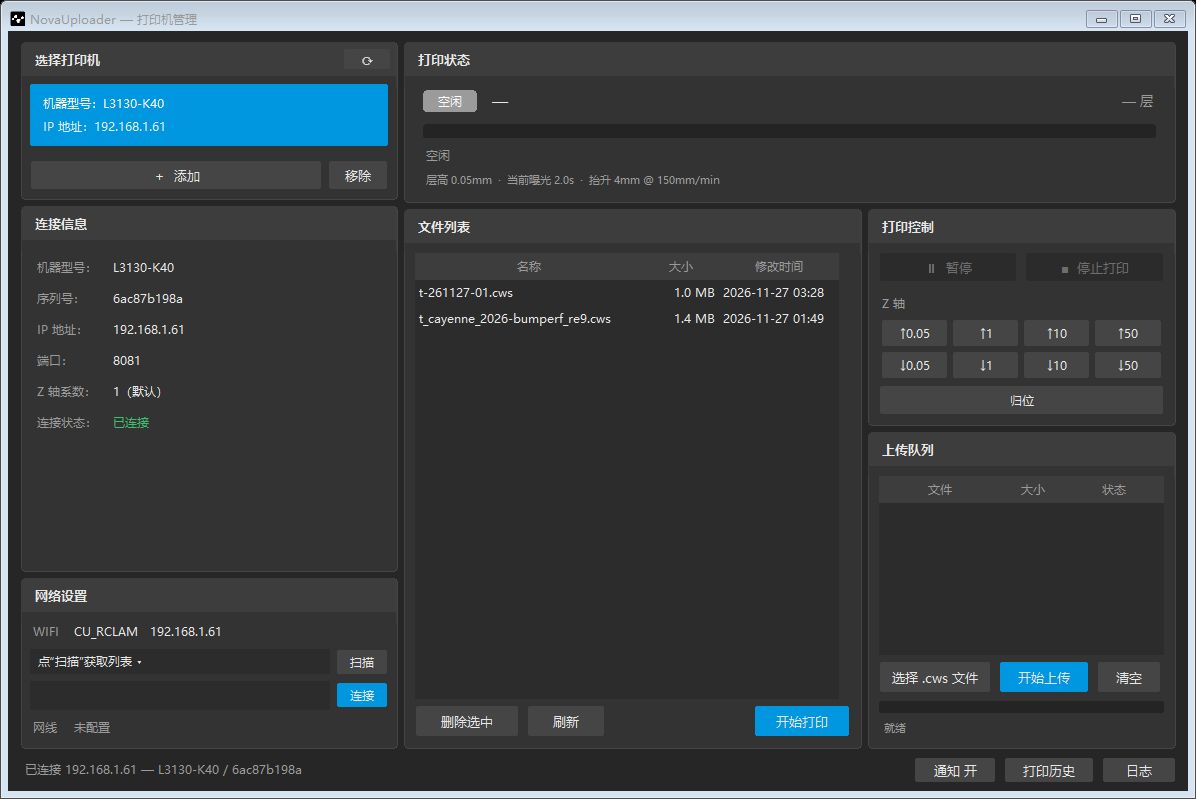
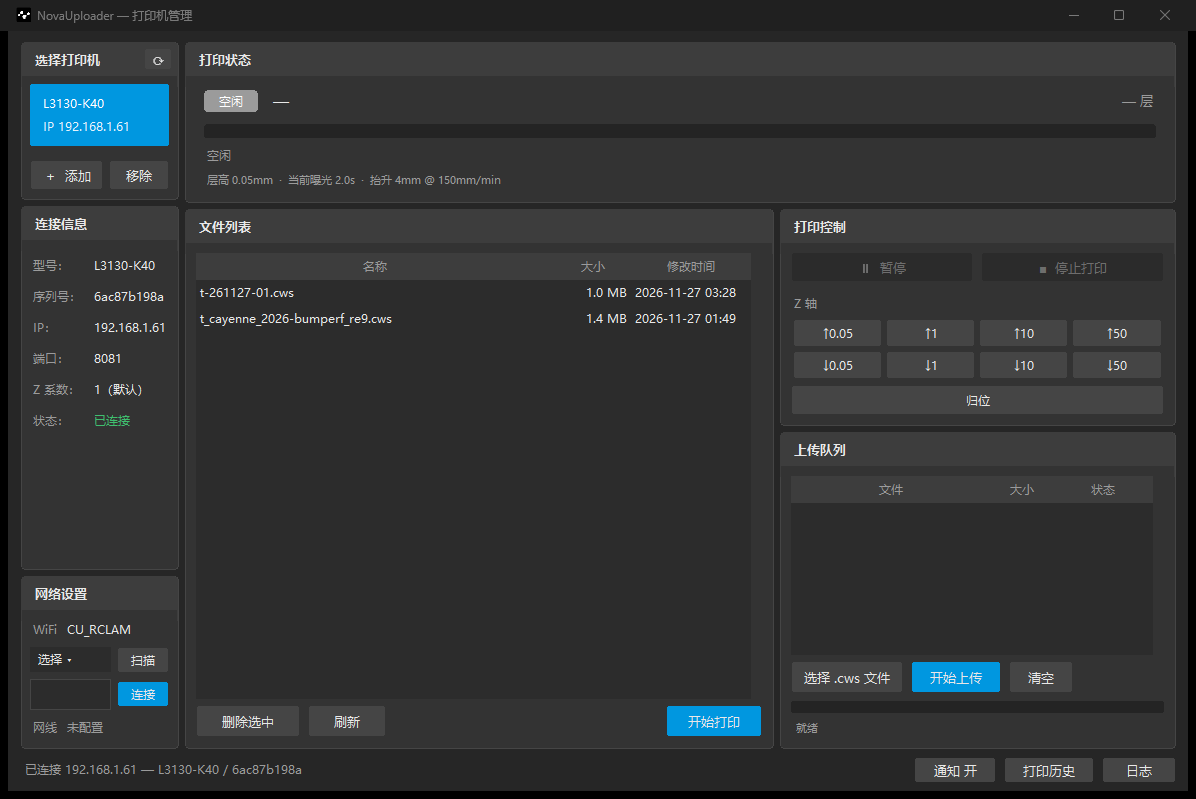
style: 侧栏宽度收到原来的 2/3，打印机行与 WiFi 名字按可用宽度适配（0.6.7）

diff --git a/pc/NovaUploader.py b/pc/NovaUploader.py
@@ -49,7 +49,7 @@ CONFIG_PATH_LEGACY = os.path.join(APP_DIR, "printers.json")
 HISTORY_PATH = os.path.join(DATA_DIR, "history.json")
 HISTORY_LIMIT = 300
 
-APP_VERSION = "0.6.6"
+APP_VERSION = "0.6.7"
 
 # NovaMaker 的图标（64x64 PNG，内嵌以免打包后还要带外部文件）
 ICON_PNG_B64 = (
@@ -463,7 +463,9 @@ class RoundButton(tk.Canvas):
                 w = f.measure(text) + int((padx * 2 + 6) * s)
             except Exception:
                 w = int(90 * s)
-        super().__init__(master, height=int(height * s), width=max(int(48 * s), w),
+        # 显式给宽度时允许比自适应下限更窄（窄侧栏里的图标/短文本按钮）
+        floor = int(28 * s) if width else int(48 * s)
+        super().__init__(master, height=int(height * s), width=max(floor, w),
                          bg=bg, highlightthickness=0, bd=0, takefocus=0)
         self.s = s
         self._text = text
@@ -716,7 +718,9 @@ class Card(tk.Frame):
         self._title = title
         self._hw = ()
 
-        self.canvas = tk.Canvas(self, bg=page, highlightthickness=0, bd=0)
+        # 宽度给 1，避免 Canvas 默认的 378px 反过来决定卡片宽度；
+        # 高度不设初值，等宽度确定后由下面的自适应逻辑回调
+        self.canvas = tk.Canvas(self, bg=page, highlightthickness=0, bd=0, width=1)
         self.canvas.pack(fill="both", expand=True)
 
         self.body = tk.Frame(self.canvas, bg=THEME["card"])
@@ -733,7 +737,9 @@ class Card(tk.Frame):
     def _relayout(self):
         c = self.canvas
         w, h = c.winfo_width(), c.winfo_height()
-        if w <= 8 or h <= 8:
+        if w < 40 or h <= 8:
+            # 宽度尚未确定（首次布局）时不要参与高度计算，
+            # 否则正文在 1px 宽度下算出的高度会把整张卡片压塌
             return
         c.delete("deco")
         pad, r = 1, self.radius
@@ -1134,9 +1140,9 @@ class App(tk.Tk):
         body.rowconfigure(2, weight=1)
 
         # ---- 左栏：选择打印机 + 连接信息 ----
-        side = tk.Frame(body, bg=THEME["bg"], width=int(238 * s))
+        side = tk.Frame(body, bg=THEME["bg"], width=int(159 * s))
         side.grid(row=0, column=0, rowspan=3, sticky="nsew", padx=(0, int(5 * s)))
-        side.grid_propagate(False)
+        side.pack_propagate(False)
 
         card_p = Card(side, "选择打印机", s)
         card_p.pack(fill="x")
@@ -1226,8 +1232,8 @@ class App(tk.Tk):
 
         row0 = tk.Frame(body, bg=THEME["card"])
         row0.pack(fill="x", padx=pad, pady=(int(8 * s), 0))
-        tk.Label(row0, text="WIFI", bg=THEME["card"], fg=THEME["text_dim"],
-                 font=(FONT, 9), width=5, anchor="w").pack(side="left")
+        tk.Label(row0, text="WiFi", bg=THEME["card"], fg=THEME["text_dim"],
+                 font=(FONT, 9), width=4, anchor="w").pack(side="left")
         self.lbl_wifi_cur = tk.Label(row0, text="—", bg=THEME["card"], fg=THEME["text"],
                                      font=(FONT, 9), anchor="w")
         self.lbl_wifi_cur.pack(side="left", fill="x", expand=True)
@@ -1235,7 +1241,7 @@ class App(tk.Tk):
         row1 = tk.Frame(body, bg=THEME["card"])
         row1.pack(fill="x", padx=pad, pady=(int(6 * s), 0))
         self.btn_wifi = tk.Menubutton(
-            row1, text="点“扫描”获取列表 ▾", bg=THEME["row"], fg=THEME["text"],
+            row1, text="选择 ▾", bg=THEME["row"], fg=THEME["text"],
             activebackground=THEME["btn"], activeforeground=THEME["text"],
             relief="flat", anchor="w", font=(FONT, 9), cursor="hand2",
             padx=int(7 * s), pady=int(3 * s))
@@ -1251,7 +1257,8 @@ class App(tk.Tk):
         row2.pack(fill="x", padx=pad, pady=(int(6 * s), 0))
         self.ent_pwd = tk.Entry(row2, show="*", bg=THEME["row"], fg=THEME["text"],
                                 insertbackground=THEME["text"], relief="flat",
-                                font=(FONT, 9), width=8)
+                                highlightthickness=1, highlightbackground=THEME["line"],
+                                highlightcolor=THEME["accent"], font=(FONT, 9), width=8)
         self.ent_pwd.pack(side="left", fill="x", expand=True, ipady=int(4 * s))
         self.btn_wifi_connect = RoundButton(row2, text="连接", width=52, height=26, s=s,
                                             font_size=9, fill=THEME["accent"],
@@ -1262,7 +1269,7 @@ class App(tk.Tk):
         row3 = tk.Frame(body, bg=THEME["card"])
         row3.pack(fill="x", padx=pad, pady=(int(6 * s), int(8 * s)))
         tk.Label(row3, text="网线", bg=THEME["card"], fg=THEME["text_dim"],
-                 font=(FONT, 9), width=5, anchor="w").pack(side="left")
+                 font=(FONT, 9), width=4, anchor="w").pack(side="left")
         self.lbl_eth = tk.Label(row3, text="—", bg=THEME["card"], fg=THEME["text_dim"],
                                 font=(FONT, 9), anchor="w")
         self.lbl_eth.pack(side="left", fill="x", expand=True)
@@ -1354,19 +1361,19 @@ class App(tk.Tk):
         """两列 grid：左列标签按实际文字宽度，右列数值，避免固定 width 把冒号截掉。"""
         s = self.s
         box = tk.Frame(card.body, bg=THEME["card"])
-        box.pack(fill="both", expand=True, padx=int(12 * s), pady=int(12 * s))
+        box.pack(fill="both", expand=True, padx=int(8 * s), pady=int(10 * s))
         box.columnconfigure(1, weight=1)
 
         self.info_val = {}
-        rows = (("model", "机器型号"), ("sn", "序列号"), ("ip", "IP 地址"),
-                ("port", "端口"), ("lift", "Z 轴系数"), ("state", "连接状态"))
+        rows = (("model", "型号"), ("sn", "序列号"), ("ip", "IP"),
+                ("port", "端口"), ("lift", "Z 系数"), ("state", "状态"))
         for r, (key, title) in enumerate(rows):
             tk.Label(box, text=title + "：", bg=THEME["card"], fg=THEME["text_dim"],
                      font=(FONT, 9), anchor="w").grid(
                 row=r, column=0, sticky="w", pady=int(4 * s))
             val = tk.Label(box, text="—", bg=THEME["card"], fg=THEME["text"],
                            font=(FONT, 9), anchor="w")
-            val.grid(row=r, column=1, sticky="w", padx=(int(10 * s), 0),
+            val.grid(row=r, column=1, sticky="w", padx=(int(7 * s), 0),
                      pady=int(4 * s))
             self.info_val[key] = val
 
@@ -1395,8 +1402,7 @@ class App(tk.Tk):
             row = PrinterRow(self.rows_box, self.s, lambda r, idx=i: self._select_index(idx))
             row.pack(fill="x", pady=(0, int(6 * self.s)))
             model = entry.get("model") or entry.get("name") or ""
-            row.update_text("机器型号：" + model,
-                            "IP 地址：" + entry["ip"], i == self.current_index)
+            row.update_text(model, "IP " + entry["ip"], i == self.current_index)
             self.printer_rows.append(row)
 
     def _select_index(self, idx, save=True):
@@ -1406,7 +1412,7 @@ class App(tk.Tk):
         for i, row in enumerate(self.printer_rows):
             entry = self.cfg["printers"][i]
             model = entry.get("model") or entry.get("name") or ""
-            row.update_text("机器型号：" + model, "IP 地址：" + entry["ip"], i == idx)
+            row.update_text(model, "IP " + entry["ip"], i == idx)
         if save:
             self.cfg["last"] = self.cfg["printers"][idx]["ip"]
             save_config(self.cfg)
@@ -1762,12 +1768,28 @@ class App(tk.Tk):
             self._pick_wifi(labels[0])
         else:
             self._wifi_sel = None
-            self.btn_wifi.configure(text="未发现 WiFi ▾")
+            self.btn_wifi.configure(text=self._fit_wifi_text("未发现 WiFi"))
         self._log("扫描到 %d 个 WiFi。" % len(labels))
+
+    def _fit_wifi_text(self, text):
+        """窄侧栏放不下长 SSID：按实测可用宽度截断，完整名仍在下拉菜单里。"""
+        avail = self.btn_wifi.winfo_width() - int(18 * self.s)
+        if avail < int(20 * self.s):
+            avail = int(60 * self.s)
+        try:
+            f = tkfont.Font(family=FONT, size=9)
+            if f.measure(text + "  \u25be") <= avail:
+                return text + "  \u25be"
+            cut = text
+            while cut and f.measure(cut + "\u2026  \u25be") > avail:
+                cut = cut[:-1]
+            return cut + "\u2026  \u25be"
+        except Exception:
+            return text + "  \u25be"
 
     def _pick_wifi(self, label):
         self._wifi_sel = label
-        self.btn_wifi.configure(text=label + "  \u25be")
+        self.btn_wifi.configure(text=self._fit_wifi_text(label))
 
     def _connect_wifi(self):
         if self._printing:
@@ -1975,8 +1997,8 @@ class App(tk.Tk):
     def _apply_network(self, info, eth):
         info = info or {}
         ssid = info.get("ssid") or "—"
-        ip = info.get("ip") or ""
-        self.lbl_wifi_cur.configure(text=("%s   %s" % (ssid, ip)).strip())
+        # 窄侧栏只留 SSID，IP 在“连接信息”和状态栏里各有一份
+        self.lbl_wifi_cur.configure(text=ssid)
         eth = eth or {}
         dhcp = eth.get("ipEth0Dhcp")
         static = eth.get("ipEth0Static")

diff --git a/android/src/com/rclam/novactl/MainActivity.java b/android/src/com/rclam/novactl/MainActivity.java
@@ -40,7 +40,7 @@ import java.util.concurrent.atomic.AtomicBoolean;
 public class MainActivity extends Activity {
 
     /** 与桌面版 NovaUploader 同代，便于两边对照。 */
-    private static final String APP_VERSION = "0.6.6";
+    private static final String APP_VERSION = "0.6.7";
     private static final int PORT = 8081;
     private static final int POLL_MS = 3000;
     private static final int TIMEOUT_MS = 5000;

diff --git a/README.md b/README.md
@@ -2,7 +2,7 @@
 
 **简体中文** | [English](README.en.md)
 
-![version](https://img.shields.io/badge/version-0.6.6-blue)
+![version](https://img.shields.io/badge/version-0.6.7-blue)
 ![platform](https://img.shields.io/badge/platform-Windows-blue)
 ![python](https://img.shields.io/badge/python-3.9%2B-3776AB)
 ![license](https://img.shields.io/badge/license-MIT-green)

diff --git a/README.en.md b/README.en.md
@@ -2,7 +2,7 @@
 
 [简体中文](README.md) | **English**
 
-![version](https://img.shields.io/badge/version-0.6.6-blue)
+![version](https://img.shields.io/badge/version-0.6.7-blue)
 ![platform](https://img.shields.io/badge/platform-Windows-blue)
 ![python](https://img.shields.io/badge/python-3.9%2B-3776AB)
 ![license](https://img.shields.io/badge/license-MIT-green)
